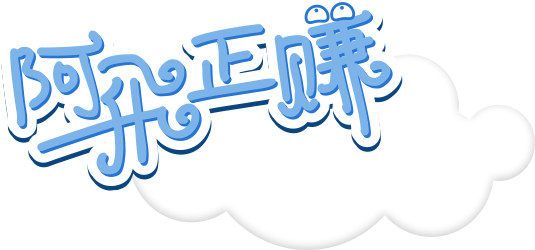
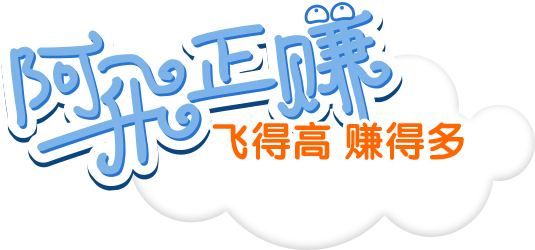
a

Changed region(s): [[0.3888, 0.476, 0.8673, 0.644]]

diff --git a/src/main.js b/src/main.js
@@ -12,6 +12,8 @@ window.onload = function() {
         if(screenSize.height > 480 && screenSize.height < 550){
             designSize = cc.size(640, 1008);
         }
+        var _scale = (screenSize.height / screenSize.width);
+        designSize = cc.size(640, parseInt(640 * _scale));
         cc.loader.resPath = "images";
         cc.view.setDesignResolutionSize(designSize.width, designSize.height, cc.ResolutionPolicy.SHOW_ALL);
         cc.LoaderScene.preload(g_resources, function() {

diff --git a/index.html b/index.html
@@ -37,8 +37,6 @@
         <div class="loading" id="loading" style="display:none;">
             <div class="yun">
                 <img src="images/loading/yun.png" />
-                <div class="ct1">飞的高 赚得多</div>
-                <div class="ct2">20000米=10M流量</div>
                 <div class="goldMove">
                     <img src="images/loading/coin.png" />
                 </div>

diff --git a/main.html b/main.html
@@ -23,8 +23,6 @@
                 </div>
                 <div class="yunmain">
                     <img src="images/loading/yun.png" />
-                    <div class="ct1">飞的高 赚得多</div>
-                    <div class="ct2">20000米=10M流量</div>
                     <div class="goldMove">
                         <img src="images/loading/coin.png" />
                     </div>

diff --git a/src/gameLayer.js b/src/gameLayer.js
@@ -1,5 +1,5 @@
 var GameLayer = cc.Layer.extend({
-    TIME: 2,
+    TIME: 20,
     TIME2: 3,
     _context: null,
     _progressTime: null, 

diff --git a/css/main.css b/css/main.css
@@ -219,7 +219,7 @@ visibility: hidden ;
 	width:25%;
 	position:absolute;
 	right:10px;
-	top:8%;
+	top:3%;
 }
 
 .mainContent{
